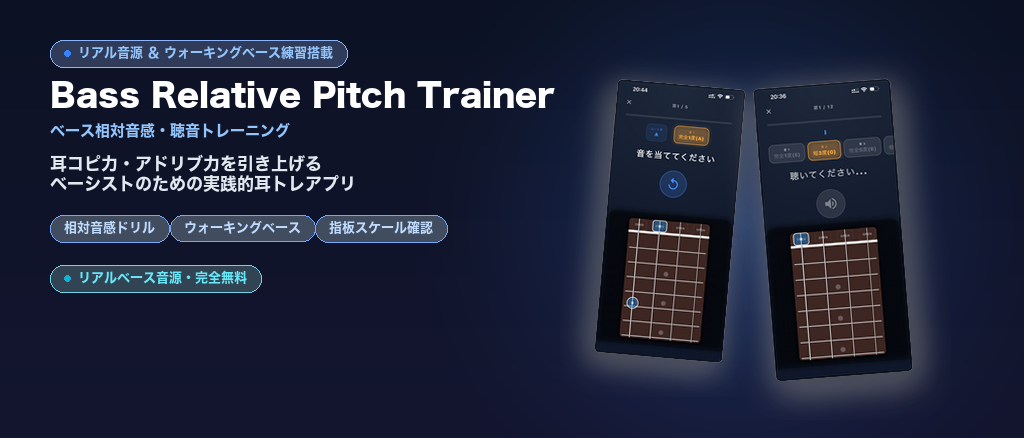
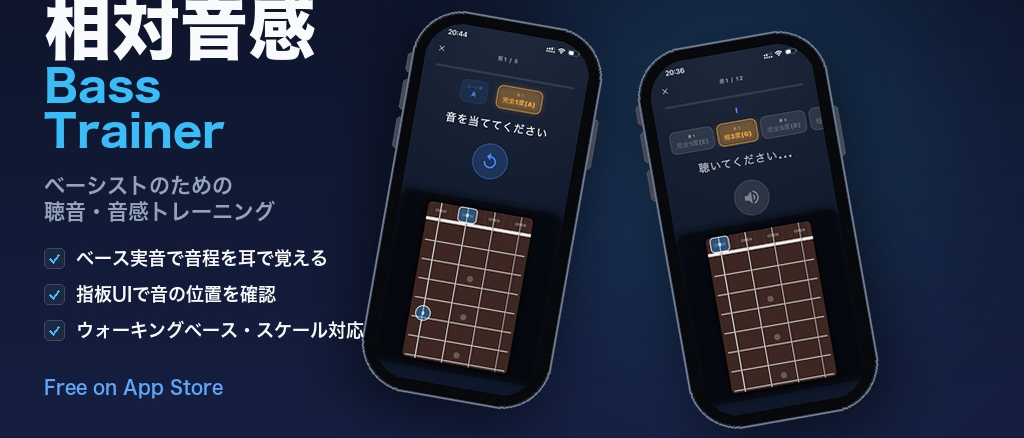
Bassを更新

diff --git a/mobile_app/relative_pitch_bass/index.html b/mobile_app/relative_pitch_bass/index.html
@@ -50,6 +50,7 @@
         "appstore_slide_01.png",
         "appstore_slide_02.png",
         "appstore_slide_03.png",
+        "appstore_slide_04.png",
         "appstore_banner.png"
       ]
     }
@@ -854,7 +855,8 @@
 
             <!-- Hero 3D Mockup -->
             <div class="hero-mockup-wrapper">
-                <img src="appstore_hero.jpg" alt="Bass Relative Pitch Trainer ヒーロー画面" class="hero-mockup-img" width="1024" height="682">
+                <img src="appstore_hero.jpg" alt="Bass Relative Pitch Trainer ヒーロー画面" class="hero-mockup-img lang-ja" width="1024" height="682">
+                <img src="appstore_hero_eng.jpg" alt="Bass Relative Pitch Trainer Hero Screen" class="hero-mockup-img lang-en" width="1024" height="682">
             </div>
         </section>
 
@@ -868,25 +870,44 @@
 
             <div class="screenshots">
 
-                <img src="appstore_slide_01.png"
+                <img src="appstore_slide_01.png" class="lang-ja"
                     alt="01 聴音ドリルで実践！指板UIとリアルなベース音源" loading="lazy">
+                <img src="appstore_slide_01_eng.png" class="lang-en"
+                    alt="01 Fretboard Ear Training - Listen and identify intervals by ear" loading="lazy">
 
-                <img src="appstore_slide_02.png"
+                <img src="appstore_slide_02.png" class="lang-ja"
                     alt="02 ウォーキングベース実践！コード進行トレーニング" loading="lazy">
+                <img src="appstore_slide_02_eng.png" class="lang-en"
+                    alt="02 Walking Bass Practice - Follow chord progressions and passing tones" loading="lazy">
 
-                <img src="appstore_slide_03.png"
+                <img src="appstore_slide_03.png" class="lang-ja"
                     alt="03 指板スケール攻略！ペンタトニックや各種コード確認" loading="lazy">
+                <img src="appstore_slide_03_eng.png" class="lang-en"
+                    alt="03 Scale & Chord Reference - Master patterns across the neck" loading="lazy">
 
-                <img src="screenshot_training.PNG"
+                <img src="appstore_slide_04.png" class="lang-ja"
+                    alt="04 カレンダーで日々の練習を記録！習慣化をサポート" loading="lazy">
+                <img src="appstore_slide_04_eng.png" class="lang-en"
+                    alt="04 Track Daily Practice Habits - Build consistency with calendar" loading="lazy">
+
+                <img src="screenshot_training.PNG" class="lang-ja"
+                    alt="Bass relative pitch training screen" loading="lazy">
+                <img src="screenshot_training_eng.PNG" class="lang-en"
                     alt="Bass relative pitch training screen" loading="lazy">
 
-                <img src="screenshot_walking_bass.PNG"
+                <img src="screenshot_walking_bass.PNG" class="lang-ja"
+                    alt="Walking bass training screen" loading="lazy">
+                <img src="screenshot_walking_bass_eng.PNG" class="lang-en"
                     alt="Walking bass training screen" loading="lazy">
 
-                <img src="screenshot_scale_ref.PNG"
+                <img src="screenshot_scale_ref.PNG" class="lang-ja"
+                    alt="Bass scale and chord reference screen" loading="lazy">
+                <img src="screenshot_scale_ref_eng.PNG" class="lang-en"
                     alt="Bass scale and chord reference screen" loading="lazy">
 
-                <img src="screenshot_home.PNG"
+                <img src="screenshot_home.PNG" class="lang-ja"
+                    alt="Bass Relative Pitch Trainer home screen" loading="lazy">
+                <img src="screenshot_home_eng.PNG" class="lang-en"
                     alt="Bass Relative Pitch Trainer home screen" loading="lazy">
 
                 <img src="screenshot_settings.png"
@@ -1376,7 +1397,8 @@
         <section class="final-cta">
 
             <div class="cta-banner-wrapper">
-                <img src="appstore_banner.png" alt="Bass Relative Pitch Trainer プロモーションバナー" class="cta-banner-img" loading="lazy">
+                <img src="appstore_banner.png" alt="Bass Relative Pitch Trainer プロモーションバナー" class="cta-banner-img lang-ja" loading="lazy">
+                <img src="appstore_banner_eng.png" alt="Bass Relative Pitch Trainer Promotion Banner" class="cta-banner-img lang-en" loading="lazy">
             </div>
 
             <h2>

diff --git a/scripts/generate_bass_marketing.py b/scripts/generate_bass_marketing.py
@@ -1,0 +1,302 @@
+#!/usr/bin/env python3
+"""
+Bass Relative Pitch Trainer - App Store & Web Marketing Asset Generator
+Creates ultra-premium 3D-tilted device mockups, slides, hero images, and promo banners
+for both Japanese and English.
+"""
+
+import sys, os, math
+sys.path.insert(0, os.path.dirname(os.path.abspath(__file__)))
+
+from PIL import Image, ImageDraw, ImageFont, ImageFilter
+from generate_appstore_marketing_assets import (
+    create_gradient_bg,
+    draw_pill_badge_clean,
+    draw_feature_item_clean,
+)
+
+BASE = "/Users/ookubotomoakira/t-okb-dev/mobile_app/relative_pitch_bass"
+SCREENSHOTS = {
+    "home":         f"{BASE}/screenshot_home.PNG",
+    "training":     f"{BASE}/screenshot_training.PNG",
+    "walking":      f"{BASE}/screenshot_walking_bass.PNG",
+    "scale":        f"{BASE}/screenshot_scale_ref.PNG",
+    # English versions
+    "home_eng":     f"{BASE}/screenshot_home_eng.PNG",
+    "training_eng": f"{BASE}/screenshot_training_eng.PNG",
+    "walking_eng":  f"{BASE}/screenshot_walking_bass_eng.PNG",
+    "scale_eng":    f"{BASE}/screenshot_scale_ref_eng.PNG",
+}
+
+OUT_HERO       = f"{BASE}/appstore_hero.jpg"
+OUT_SLIDES = [
+    f"{BASE}/appstore_slide_01.png",
+    f"{BASE}/appstore_slide_02.png",
+    f"{BASE}/appstore_slide_03.png",
+    f"{BASE}/appstore_slide_04.png",
+]
+OUT_BANNER     = f"{BASE}/appstore_banner.png"
+
+OUT_HERO_ENG   = f"{BASE}/appstore_hero_eng.jpg"
+OUT_SLIDES_ENG = [
+    f"{BASE}/appstore_slide_01_eng.png",
+    f"{BASE}/appstore_slide_02_eng.png",
+    f"{BASE}/appstore_slide_03_eng.png",
+    f"{BASE}/appstore_slide_04_eng.png",
+]
+OUT_BANNER_ENG = f"{BASE}/appstore_banner_eng.png"
+
+FONT_HEAVY  = "/System/Library/Fonts/ヒラギノ角ゴシック W8.ttc"
+FONT_BOLD   = "/System/Library/Fonts/ヒラギノ角ゴシック W7.ttc"
+FONT_MEDIUM = "/System/Library/Fonts/ヒラギノ角ゴシック W6.ttc"
+
+def lf(p, s):
+    try: return ImageFont.truetype(p, s)
+    except: return ImageFont.load_default()
+
+ASPECT      = 1284 / 2778
+GRAD_TOP    = (12,  18,  38)
+GRAD_BOT    = (24,  34,  72)
+ACCENT_CYAN = ( 56, 189, 248, 255)
+ACCENT_BLUE = ( 96, 165, 250, 255)
+WHITE       = (248, 250, 252, 255)
+DIM         = (148, 163, 184, 255)
+
+
+def render_phone(screen_key, target_device_h, tilt_deg, shadow_blur=28, shadow_opacity=140):
+    theta  = math.radians(abs(tilt_deg))
+    cos_t  = abs(math.cos(theta)); sin_t = abs(math.sin(theta))
+    sp     = shadow_blur * 2
+    overhead = 126  # (pad*2 + canvas_pad*2)
+    rhs    = target_device_h - 2*sp - overhead*(cos_t+sin_t)
+    sc_h   = max(80, int(rhs / (cos_t + ASPECT*sin_t)))
+    sc_w   = int(sc_h * ASPECT)
+
+    sc = Image.open(SCREENSHOTS[screen_key]).convert('RGB')\
+              .resize((sc_w, sc_h), Image.Resampling.LANCZOS).convert('RGBA')
+
+    bezel=10; metal=3; pad=bezel+metal; canvas_pad=50; corner_r=50
+    fw=sc_w+pad*2; fh=sc_h+pad*2; cw=fw+canvas_pad*2; ch=fh+canvas_pad*2
+
+    frame = Image.new('RGBA', (cw, ch), (0, 0, 0, 0))
+    d = ImageDraw.Draw(frame)
+    fx=canvas_pad; fy=canvas_pad
+
+    # Side buttons
+    d.rounded_rectangle([(fx+fw-2,fy+int(fh*0.22)),(fx+fw+4,fy+int(fh*0.35))],radius=3,fill=(70,75,88,255))
+    d.rounded_rectangle([(fx-4,fy+int(fh*0.13)),(fx+2,fy+int(fh*0.18))],radius=3,fill=(70,75,88,255))
+    d.rounded_rectangle([(fx-4,fy+int(fh*0.20)),(fx+2,fy+int(fh*0.28))],radius=3,fill=(70,75,88,255))
+    d.rounded_rectangle([(fx-4,fy+int(fh*0.30)),(fx+2,fy+int(fh*0.38))],radius=3,fill=(70,75,88,255))
+    # Frame body
+    d.rounded_rectangle([(fx,fy),(fx+fw,fy+fh)],radius=corner_r,
+                         fill=(28,32,42,255),outline=(100,110,130,255),width=2)
+    d.rounded_rectangle([(fx+metal,fy+metal),(fx+fw-metal,fy+fh-metal)],
+                         radius=corner_r-2, fill=(8,9,12,255))
+    # Screen – paste with rounded-rect mask
+    sx=fx+pad; sy=fy+pad
+    scr_mask=Image.new('L',(sc_w,sc_h),0)
+    smd=ImageDraw.Draw(scr_mask)
+    smd.rounded_rectangle([(0,0),(sc_w,sc_h)],radius=max(1,corner_r-pad),fill=255)
+    frame.paste(sc,(sx,sy),scr_mask)
+
+    # Tilt
+    if tilt_deg != 0:
+        frame = frame.rotate(tilt_deg, Image.Resampling.BICUBIC, expand=True)
+
+    # Shadow & frame composite
+    frame_alpha = frame.split()[3]
+    W2=frame.width+sp*2; H2=frame.height+sp*2
+
+    shadow_layer = Image.new('RGBA',(W2,H2),(0,0,0,0))
+    shadow_fill  = Image.new('RGBA',frame.size,(0,0,0,shadow_opacity))
+    shadow_layer.paste(shadow_fill,(sp+int(tilt_deg*1.2),sp+int(shadow_blur*0.6)),frame_alpha)
+    shadow_layer = shadow_layer.filter(ImageFilter.GaussianBlur(shadow_blur))
+
+    frame_layer = Image.new('RGBA',(W2,H2),(0,0,0,0))
+    frame_layer.paste(frame,(sp,sp))
+
+    return Image.alpha_composite(shadow_layer, frame_layer)
+
+
+def place_phone(canvas, dev, cx, cy):
+    dw,dh=dev.size; x=cx-dw//2; y=cy-dh//2
+    tmp=Image.new('RGBA',canvas.size,(0,0,0,0))
+    src_x=max(0,-x);  src_y=max(0,-y)
+    dst_x=max(0,x);   dst_y=max(0,y)
+    w=min(dw-src_x, canvas.width-dst_x)
+    h=min(dh-src_y, canvas.height-dst_y)
+    if w>0 and h>0:
+        tmp.paste(dev.crop((src_x,src_y,src_x+w,src_y+h)),(dst_x,dst_y))
+    return Image.alpha_composite(canvas, tmp)
+
+
+def draw_badge_on_canvas(canvas, x, y, text, font, fill_color, text_color, border_color, dot_color=None):
+    overlay = Image.new('RGBA', canvas.size, (0, 0, 0, 0))
+    d = ImageDraw.Draw(overlay)
+    draw_pill_badge_clean(d, x, y, text, font, fill_color, text_color, border_color, dot_color)
+    return Image.alpha_composite(canvas, overlay)
+
+
+def draw_features_on_canvas(canvas, items, start_x, start_y, line_gap, font, text_color, check_color):
+    overlay = Image.new('RGBA', canvas.size, (0, 0, 0, 0))
+    d = ImageDraw.Draw(overlay)
+    for i, item in enumerate(items):
+        draw_feature_item_clean(d, start_x, start_y + i * line_gap, item, font, text_color, check_color)
+    return Image.alpha_composite(canvas, overlay)
+
+
+# ─── HERO 1024x682 ───────────────────────────────────────────────────────────
+def make_hero():
+    W, H = 1024, 682
+    bg = create_gradient_bg(W,H,GRAD_TOP,GRAD_BOT,
+         radial_glow=(int(W*0.72),int(H*0.38),400,(56,189,248,65)))
+    canvas = bg.convert('RGBA')
+
+    dev_h = int(H * 0.94)
+    dev_train   = render_phone("training", dev_h, -10, 28, 140)
+    dev_walking = render_phone("walking",  dev_h,  10, 28, 140)
+    print(f"  Hero JA: dev={dev_train.size}")
+
+    canvas = place_phone(canvas, dev_walking, int(W*0.74), H//2+10)
+    canvas = place_phone(canvas, dev_train,   int(W*0.47), H//2-10)
+
+    fx = 44
+    canvas = draw_badge_on_canvas(canvas, fx, 72, "Bass Ear Training", lf(FONT_MEDIUM,16),
+        fill_color=(56,189,248,35), text_color=(56,189,248,255),
+        border_color=(56,189,248,110), dot_color=(56,189,248,255))
+
+    feats = ["ベース実音で音程を耳で覚える", "指板UIで音の位置を確認", "ウォーキングベース・スケール対応"]
+    canvas = draw_features_on_canvas(canvas, feats, fx, 370, 36, lf(FONT_MEDIUM,18), WHITE, ACCENT_CYAN)
+
+    draw = ImageDraw.Draw(canvas)
+    draw.text((fx,116),"相対音感", font=lf(FONT_HEAVY,68), fill=WHITE)
+    draw.text((fx,185),"Bass",    font=lf(FONT_BOLD,44),   fill=ACCENT_CYAN)
+    draw.text((fx,230),"Trainer", font=lf(FONT_BOLD,44),   fill=ACCENT_CYAN)
+    draw.text((fx,296),"ベーシストのための",      font=lf(FONT_MEDIUM,21), fill=DIM)
+    draw.text((fx,322),"聴音・音感トレーニング",  font=lf(FONT_MEDIUM,21), fill=DIM)
+    draw.text((fx,500),"Free on App Store",font=lf(FONT_MEDIUM,18),fill=ACCENT_BLUE)
+
+    canvas.convert('RGB').save(OUT_HERO,'JPEG',quality=95)
+    print(f"  Saved: {OUT_HERO}")
+
+
+# ─── SLIDES 512x1024 ─────────────────────────────────────────────────────────
+SLIDE_CONFIGS_JA = [
+    {"key":"training", "title":"指板UIで\n音感トレーニング",     "subtitle":"ベース実音で音程を聴き当てる",           "badge":"トレーニング",     "tilt": 6},
+    {"key":"walking",  "title":"ウォーキングベース\n実践トレーニング", "subtitle":"コード進行に合わせてルートや経過音を判断",   "badge":"ウォーキングベース", "tilt":-6},
+    {"key":"scale",    "title":"スケール＆コード\nの音位置を確認",     "subtitle":"各スケールの指板ポジションを直感把握",   "badge":"スケール参照",     "tilt": 6},
+    {"key":"home",     "title":"カレンダーで\n日々の練習を記録",       "subtitle":"毎日のトレーニングを可視化して継続",     "badge":"ホーム画面",       "tilt":-6},
+]
+
+SLIDE_CONFIGS_ENG = [
+    {"key":"training_eng", "title":"Fretboard\nEar Training",       "subtitle":"Listen and identify bass intervals by ear",   "badge":"Training",        "tilt": 6},
+    {"key":"walking_eng",  "title":"Walking Bass\nPractice Mode",   "subtitle":"Follow chord progressions and passing tones", "badge":"Walking Bass",   "tilt":-6},
+    {"key":"scale_eng",    "title":"Explore Scales\n& Chords",      "subtitle":"Master scale patterns on the bass fretboard", "badge":"Scale Reference", "tilt": 6},
+    {"key":"home_eng",     "title":"Track Daily\nPractice Habits",  "subtitle":"Build consistent habits with calendar history", "badge":"Home",           "tilt":-6},
+]
+
+def make_slides(configs=None, out_paths=None, is_eng=False):
+    if configs is None: configs = SLIDE_CONFIGS_JA
+    if out_paths is None: out_paths = OUT_SLIDES
+    W, H = 512, 1024
+    for idx, cfg in enumerate(configs):
+        bg = create_gradient_bg(W,H,GRAD_TOP,GRAD_BOT,
+             radial_glow=(int(W*0.65),int(H*0.40),280,(56,189,248,45)))
+        canvas = bg.convert('RGBA')
+
+        dev_h = int(H * 0.814)
+        dev = render_phone(cfg["key"], dev_h, cfg["tilt"], 22, 130)
+        print(f"  Slide {idx+1} ({'ENG' if is_eng else 'JA'}): dev={dev.size}")
+
+        actual_dev_h = dev.size[1]
+        cy_slide = H - actual_dev_h // 2 - 8
+        canvas = place_phone(canvas, dev, int(W * 0.54), cy_slide)
+
+        tx = 28
+        canvas = draw_badge_on_canvas(canvas, tx, 44, cfg["badge"], lf(FONT_MEDIUM,15),
+            fill_color=(56,189,248,30), text_color=ACCENT_CYAN,
+            border_color=(56,189,248,90), dot_color=(56,189,248,255))
+
+        draw = ImageDraw.Draw(canvas)
+        ty = 88
+        title_size = 36 if is_eng else 38
+        line_h = 44 if is_eng else 46
+        for line in cfg["title"].split("\n"):
+            draw.text((tx,ty),line,font=lf(FONT_HEAVY,title_size),fill=WHITE)
+            ty += line_h
+        draw.text((tx,ty+4),cfg["subtitle"],font=lf(FONT_MEDIUM,15 if is_eng else 16),fill=DIM)
+
+        canvas.save(out_paths[idx],'PNG')
+        print(f"  Saved: {out_paths[idx]}")
+
+
+# ─── BANNER 1024x438 ─────────────────────────────────────────────────────────
+def make_banner():
+    W_hero, H_hero   = 1024, 682
+    H_banner = 438
+    hero = Image.open(OUT_HERO)
+    top    = (H_hero - H_banner) // 2
+    banner = hero.crop((0, top, W_hero, top + H_banner))
+    banner.save(OUT_BANNER, "PNG")
+    print(f"  Saved (cropped from hero): {OUT_BANNER}")
+
+
+# ─── HERO (English) 1024x682 ──────────────────────────────────────────────────
+def make_hero_eng():
+    W, H = 1024, 682
+    bg = create_gradient_bg(W,H,GRAD_TOP,GRAD_BOT,
+         radial_glow=(int(W*0.72),int(H*0.38),400,(56,189,248,65)))
+    canvas = bg.convert('RGBA')
+
+    dev_h = int(H * 0.94)
+    dev_train   = render_phone("training_eng", dev_h, -10, 28, 140)
+    dev_walking = render_phone("walking_eng",  dev_h,  10, 28, 140)
+    print(f"  Hero ENG: dev={dev_train.size}")
+
+    canvas = place_phone(canvas, dev_walking, int(W*0.74), H//2+10)
+    canvas = place_phone(canvas, dev_train,   int(W*0.47), H//2-10)
+
+    fx = 44
+    canvas = draw_badge_on_canvas(canvas, fx, 72, "Bass Ear Training", lf(FONT_MEDIUM,16),
+        fill_color=(56,189,248,35), text_color=(56,189,248,255),
+        border_color=(56,189,248,110), dot_color=(56,189,248,255))
+
+    feats = ["Identify intervals with real bass sounds", "Interactive fretboard for visual learning", "Walking bass & scale reference modes"]
+    canvas = draw_features_on_canvas(canvas, feats, fx, 360, 36, lf(FONT_MEDIUM,18), WHITE, ACCENT_CYAN)
+
+    draw = ImageDraw.Draw(canvas)
+    draw.text((fx,116),"Relative",    font=lf(FONT_HEAVY,56), fill=WHITE)
+    draw.text((fx,173),"Bass",        font=lf(FONT_BOLD,48),  fill=ACCENT_CYAN)
+    draw.text((fx,222),"Trainer",     font=lf(FONT_BOLD,48),  fill=ACCENT_CYAN)
+    draw.text((fx,288),"Ear training for bassists",  font=lf(FONT_MEDIUM,20), fill=DIM)
+    draw.text((fx,313),"with real bass tones",       font=lf(FONT_MEDIUM,20), fill=DIM)
+    draw.text((fx,500),"Free on App Store",font=lf(FONT_MEDIUM,18),fill=ACCENT_BLUE)
+
+    canvas.convert('RGB').save(OUT_HERO_ENG,'JPEG',quality=95)
+    print(f"  Saved: {OUT_HERO_ENG}")
+
+
+# ─── BANNER (English) ─────────────────────────────────────────────────────────
+def make_banner_eng():
+    W_hero, H_hero = 1024, 682
+    H_banner = 438
+    hero = Image.open(OUT_HERO_ENG)
+    top    = (H_hero - H_banner) // 2
+    banner = hero.crop((0, top, W_hero, top + H_banner))
+    banner.save(OUT_BANNER_ENG, "PNG")
+    print(f"  Saved (cropped from hero_eng): {OUT_BANNER_ENG}")
+
+
+if __name__ == "__main__":
+    print("=== Japanese Assets ===")
+    make_hero()
+    make_slides(SLIDE_CONFIGS_JA, OUT_SLIDES, is_eng=False)
+    make_banner()
+
+    print("\n=== English Assets ===")
+    make_hero_eng()
+    make_slides(SLIDE_CONFIGS_ENG, OUT_SLIDES_ENG, is_eng=True)
+    make_banner_eng()
+
+    print("\nAll assets generated successfully!")
+
